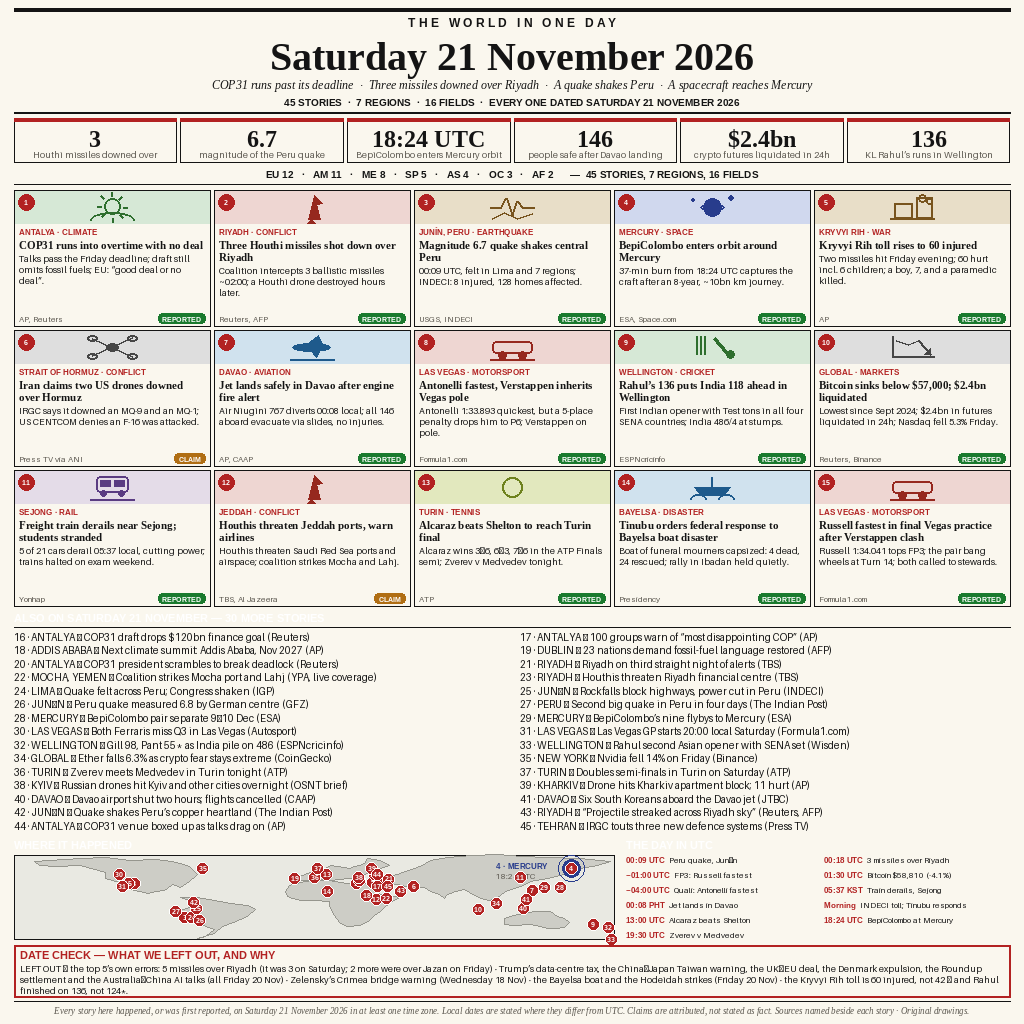
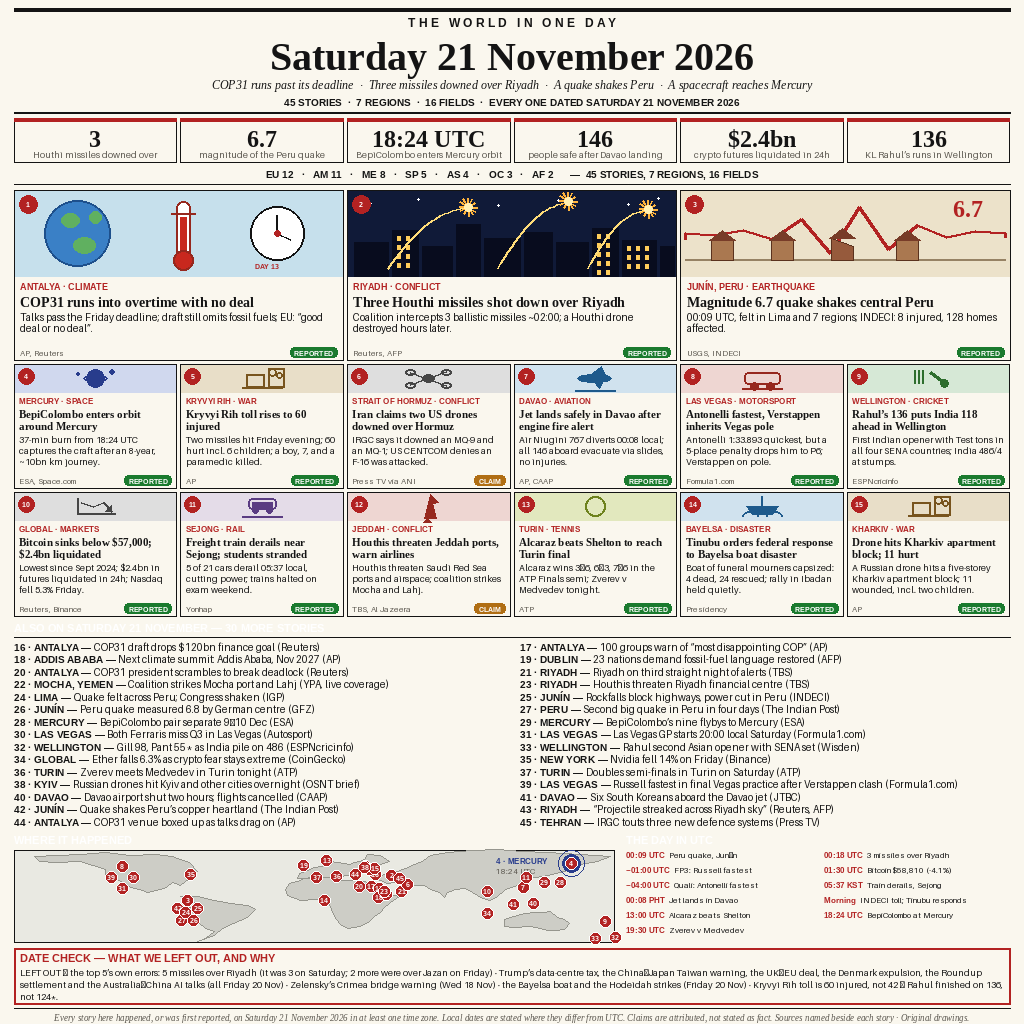
Improve front page v4: big rich top-3 illustrations, Kharkiv lead, cleaner map
- Top 3 leads are now large cards with rich full-colour scenes
  (COP31 globe/thermometer/clock, Riyadh night skyline + missile
  trails, Peru seismograph + houses + 6.7); other 12 leads smaller.
- Promote Kharkiv (drone hits apartment block, 11 hurt) to lead #15;
  demote Las Vegas FP3 to brief #39 so no event takes two lead slots.
- Map pins for same-place stories spread on a ring (de-clash).
- Briefs: place names bold for scannability; DATE CHECK tightened.
- 45 stories, 7 regions, 16 fields, 6-number strip, UTC timeline.
- Determinism verified (3x identical, sha a55c73e3...); main.py
  stdlib-only copy, verified under python3 -S -P.

diff --git a/build_image.py b/build_image.py
@@ -5,6 +5,12 @@ A newspaper front page summing up Saturday 21 November 2026: 45 stories
 verified as happening, or first reported, on Saturday 21 November 2026.
 All text and art is drawn in code with Pillow; no external images, no
 timestamps, no randomness -- the output is byte-for-byte deterministic.
+
+v4 layout: the top 3 leads are large cards with rich full-colour scenes
+(COP31, Riyadh missiles, Peru quake); the other 12 leads are smaller cards.
+Kharkiv (drone hits apartment block, 11 hurt) is promoted to lead #15 and
+the Las Vegas FP3 story is demoted to brief #39, so no single event takes
+two illustrated slots. Map pins for same-place stories spread on a ring.
 """
 
 from PIL import Image, ImageDraw, ImageFont
@@ -93,11 +99,11 @@ LEADS = [
          headline="Tinubu orders federal response to Bayelsa boat disaster",
          summary="Boat of funeral mourners capsized: 4 dead, 24 rescued; rally in Ibadan held quietly.",
          source="Presidency", lat=4.9, lon=6.1),
-    dict(n=15, place="LAS VEGAS", region="AM", field="MOTORSPORT", tag="REPORTED",
-         kind="motorsport",
-         headline="Russell fastest in final Vegas practice after Verstappen clash",
-         summary="Russell 1:34.041 tops FP3; the pair bang wheels at Turn 14; both called to stewards.",
-         source="Formula1.com", lat=36.2, lon=-115.1),
+    dict(n=15, place="KHARKIV", region="EU", field="WAR", tag="REPORTED",
+         kind="war",
+         headline="Drone hits Kharkiv apartment block; 11 hurt",
+         summary="A Russian drone hits a five-storey Kharkiv apartment block; 11 wounded, incl. two children.",
+         source="AP", lat=49.9, lon=36.3),
 ]
 
 BRIEFS = [
@@ -124,7 +130,7 @@ BRIEFS = [
     (36, "TURIN", "Zverev meets Medvedev in Turin tonight", "ATP", 45.1, 7.7),
     (37, "TURIN", "Doubles semi-finals in Turin on Saturday", "ATP", 45.1, 7.7),
     (38, "KYIV", "Russian drones hit Kyiv and other cities overnight", "OSNT brief", 50.4, 30.5),
-    (39, "KHARKIV", "Drone hits Kharkiv apartment block; 11 hurt", "AP", 49.9, 36.3),
+    (39, "LAS VEGAS", "Russell fastest in final Vegas practice after Verstappen clash", "Formula1.com", 36.2, -115.1),
     (40, "DAVAO", "Davao airport shut two hours; flights cancelled", "CAAP", 7.1, 125.6),
     (41, "DAVAO", "Six South Koreans aboard the Davao jet", "JTBC", 7.1, 125.6),
     (42, "JUN\u00cdN", "Quake shakes Peru\u2019s copper heartland", "The Indian Post", -11.2, -75.9),
@@ -163,8 +169,8 @@ DATE_CHECK = (
     "2 more were over Jazan on Friday) \u00b7 Trump\u2019s data-centre tax, the China\u2013Japan Taiwan "
     "warning, the UK\u2013EU deal, the Denmark expulsion, the Roundup settlement and the "
     "Australia\u2013China AI talks (all Friday 20 Nov) \u00b7 Zelensky\u2019s Crimea bridge warning "
-    "(Wednesday 18 Nov) \u00b7 the Bayelsa boat and the Hodeidah strikes (Friday 20 Nov) \u00b7 "
-    "the Kryvyi Rih toll is 60 injured, not 42 \u2014 and Rahul finished on 136, not 124*."
+    "(Wed 18 Nov) \u00b7 the Bayelsa boat and the Hodeidah strikes (Friday 20 Nov) \u00b7 "
+    "Kryvyi Rih toll is 60 injured, not 42 \u2014 Rahul finished on 136, not 124*."
 )
 
 FOOTER = (
@@ -216,6 +222,9 @@ def fonts():
         "numlabel": _font("LiberationSans.ttf", 9),
         "lead_head": _font("LiberationSerif-Bold.ttf", 11),
         "lead_sum": _font("LiberationSans.ttf", 9),
+        "big_head": _font("LiberationSerif-Bold.ttf", 14),
+        "big_sum": _font("LiberationSans.ttf", 10),
+        "big_kick": _font("LiberationSans-Bold.ttf", 9),
         "lead_kick": _font("LiberationSans-Bold.ttf", 8),
         "src": _font("LiberationSans.ttf", 8),
         "tag": _font("LiberationSans-Bold.ttf", 7),
@@ -347,6 +356,101 @@ def draw_illustration(d, box, kind, ink):
         d.arc([x1 - 20, y1 - 8, x1 - 4, y1 + 2], 180, 360, fill=ink, width=2)
 
 
+def draw_big_illustration(d, box, kind, F):
+    """Rich scene for a top-3 lead: a full-colour picture, not a pictogram."""
+    import math
+    x0, y0, x1, y1 = box
+    x0, y0, x1, y1 = int(x0), int(y0), int(x1), int(y1)
+    w, h = x1 - x0, y1 - y0
+    cx, cy = (x0 + x1) / 2, (y0 + y1) / 2
+    if kind == "climate":
+        d.rectangle([x0, y0, x1, y1], fill=(198, 224, 236))
+        # globe, left
+        gx, gy, gr = x0 + 62, cy, 33
+        d.ellipse([gx - gr, gy - gr, gx + gr, gy + gr], fill=(58, 128, 198),
+                  outline=(30, 80, 140), width=2)
+        d.ellipse([gx - 16, gy - 20, gx + 2, gy - 6], fill=(96, 176, 96))
+        d.ellipse([gx - 4, gy + 4, gx + 18, gy + 20], fill=(96, 176, 96))
+        d.ellipse([gx + 12, gy - 22, gx + 24, gy - 10], fill=(96, 176, 96))
+        # thermometer, centre
+        tx = x0 + 168
+        d.rounded_rectangle([tx - 7, y0 + 10, tx + 7, y1 - 16], radius=7,
+                            fill=(255, 255, 255), outline=(150, 40, 30), width=2)
+        d.rectangle([tx - 3, y0 + 26, tx + 3, y1 - 22], fill=(200, 40, 30))
+        d.ellipse([tx - 10, y1 - 26, tx + 10, y1 - 6], fill=(200, 40, 30),
+                  outline=(150, 40, 30), width=2)
+        d.line([tx - 12, y0 + 22, tx + 12, y0 + 22], fill=(150, 40, 30), width=2)
+        # clock (overtime), right
+        kx, ky, kr = x0 + 262, cy, 27
+        d.ellipse([kx - kr, ky - kr, kx + kr, ky + kr], fill=(255, 255, 255),
+                  outline=(20, 20, 20), width=2)
+        d.line([kx, ky, kx, ky - 18], fill=(20, 20, 20), width=2)
+        d.line([kx, ky, kx + 13, ky + 6], fill=(20, 20, 20), width=2)
+        d.ellipse([kx - 3, ky - 3, kx + 3, ky + 3], fill=(178, 34, 34))
+        d.text((kx - 22, ky + kr + 2), "DAY 13", font=F["tag"], fill=(178, 34, 34))
+    elif kind == "missile":
+        d.rectangle([x0, y0, x1, y1], fill=(16, 26, 56))
+        # stars
+        for sx, sy in [(x0 + 22, y0 + 12), (x0 + 70, y0 + 8), (x0 + 150, y0 + 14),
+                       (x0 + 210, y0 + 9), (x0 + 280, y0 + 13), (x0 + 310, y0 + 7)]:
+            d.ellipse([sx - 1, sy - 1, sx + 1, sy + 1], fill=(255, 255, 255))
+        # skyline, dark towers with lit windows
+        for bx, bw, bh in [(x0 + 6, 34, 34), (x0 + 44, 26, 46), (x0 + 74, 30, 30),
+                           (x0 + 108, 24, 52), (x0 + 136, 36, 38), (x0 + 176, 28, 44),
+                           (x0 + 208, 32, 34), (x0 + 244, 26, 48), (x0 + 274, 34, 36),
+                           (x0 + 312, 14, 30)]:
+            d.rectangle([bx, y1 - bh, bx + bw, y1], fill=(8, 12, 30))
+            for wy in range(y1 - bh + 6, y1 - 4, 9):
+                for wx in range(bx + 5, bx + bw - 4, 9):
+                    if (wx + wy) % 3 == 0:
+                        d.rectangle([wx, wy, wx + 3, wy + 4], fill=(255, 205, 90))
+        # three interceptor trails arcing up, with starbursts
+        for tx0, tx1, top in [(x0 + 40, x0 + 120, y0 + 16), (x0 + 150, x0 + 220, y0 + 10),
+                              (x0 + 240, x0 + 300, y0 + 18)]:
+            pts = []
+            for s in range(0, 21):
+                t = s / 20
+                px = tx0 + (tx1 - tx0) * t
+                py = (y1 - 8) + (top - (y1 - 8)) * t - 14 * math.sin(math.pi * t)
+                pts.append((px, py))
+            d.line(pts, fill=(255, 220, 120), width=2)
+            ex, ey = tx1, top
+            for a in range(0, 360, 30):
+                r = 9
+                d.line([ex, ey, ex + r * math.cos(math.radians(a)),
+                        ey + r * math.sin(math.radians(a))],
+                       fill=(255, 180, 60), width=2)
+            d.ellipse([ex - 4, ey - 4, ex + 4, ey + 4], fill=(255, 240, 180))
+    elif kind == "quake":
+        d.rectangle([x0, y0, x1, y1], fill=(236, 226, 202))
+        # seismograph trace, big red waveform
+        pts = [(x0 + 4, cy + 6)]
+        amps = [0, 2, -3, 6, -14, 20, -26, 16, -8, 4, -2, 0]
+        step = (w - 8) / (len(amps) - 1)
+        for i, a in enumerate(amps):
+            pts.append((x0 + 4 + i * step, cy + a))
+        pts.append((x1 - 4, cy + 4))
+        d.line(pts, fill=(178, 34, 34), width=3)
+        d.line([(x0 + 4, cy + 26), (x1 - 4, cy + 26)], fill=(150, 130, 100), width=2)
+        # houses along the ground line, one tilted
+        for hx, tilt in [(x0 + 30, 0), (x0 + 90, 0), (x0 + 150, 8), (x0 + 215, 0)]:
+            hy = y1 - 26
+            if tilt:
+                d.polygon([(hx, hy - 12), (hx + 22, hy - 4), (hx + 22, hy + 10),
+                           (hx, hy + 10)], fill=(150, 90, 60), outline=(90, 50, 30))
+                d.polygon([(hx - 2, hy - 12), (hx + 11, hy - 22), (hx + 24, hy - 12)],
+                          fill=(120, 60, 40))
+            else:
+                d.rectangle([hx, hy - 10, hx + 22, hy + 10], fill=(170, 120, 80),
+                            outline=(90, 50, 30))
+                d.polygon([(hx - 2, hy - 10), (hx + 11, hy - 20), (hx + 24, hy - 10)],
+                          fill=(120, 60, 40))
+        d.text((x1 - 56, y0 + 4), "6.7", font=F["big"], fill=(178, 34, 34))
+    else:
+        # fallback: the small pictogram, centred
+        draw_illustration(d, box, kind, (60, 60, 60))
+
+
 # ---------------------------------------------------------------- sections
 
 
@@ -385,50 +489,77 @@ def draw_region_bar(d, F, y):
 
 
 def draw_leads(d, F, y):
-    cols, gap = 5, 4
-    card_w = (W - 2 * MARGIN - (cols - 1) * gap) / cols
-    card_h = 136
-    for row in range(3):
-        for col in range(5):
-            lead = LEADS[row * 5 + col]
-            x0 = MARGIN + col * (card_w + gap)
-            x1 = x0 + card_w
-            cy = y + row * (card_h + gap)
-            d.rectangle([x0, cy, x1, cy + card_h], outline=RULE, width=1)
-            # illustration band
-            tint = KIND_TINT[lead["kind"]]
-            d.rectangle([x0 + 1, cy + 1, x1 - 1, cy + 33], fill=tint)
-            draw_illustration(d, (x0 + card_w / 2 - 26, cy + 2, x0 + card_w / 2 + 26, cy + 32),
-                              lead["kind"], KIND_INK[lead["kind"]])
-            # number tag
-            d.ellipse([x0 + 4, cy + 4, x0 + 20, cy + 20], fill=RED)
-            num = str(lead["n"])
-            nw = d.textlength(num, font=F["tag"])
-            d.text((x0 + 12 - nw / 2, cy + 8), num, font=F["tag"], fill=(255, 255, 255))
-            # kicker: place + field
-            d.text((x0 + 5, cy + 37), "%s \u00b7 %s" % (lead["place"], lead["field"]),
-                   font=F["lead_kick"], fill=RED)
-            # headline, up to 3 lines
-            hl = fit_lines(d, lead["headline"], F["lead_head"], card_w - 10, 3)
-            hy = cy + 49
-            for ln in hl:
-                d.text((x0 + 5, hy), ln, font=F["lead_head"], fill=INK)
-                hy += 12
-            # summary, up to 3 lines
-            sl = fit_lines(d, lead["summary"], F["lead_sum"], card_w - 10, 3)
-            sy = hy + 2
-            for ln in sl:
-                d.text((x0 + 5, sy), ln, font=F["lead_sum"], fill=INK)
-                sy += 11
-            # source + verification tag, pinned to the card bottom
-            d.text((x0 + 5, cy + card_h - 12), lead["source"], font=F["src"], fill=MUTED)
-            tag = lead["tag"]
-            tw = d.textlength(tag, font=F["tag"]) + 8
-            d.rounded_rectangle([x1 - 5 - tw, cy + card_h - 13, x1 - 5, cy + card_h - 3],
-                                radius=4, fill=TAG_COLORS[tag])
-            d.text((x1 - 5 - tw + 4, cy + card_h - 11), tag, font=F["tag"],
-                   fill=(255, 255, 255))
-    return y + 3 * card_h + 2 * gap + 6
+    gap = 4
+    # --- big row: leads 1-3, large rich illustrations
+    big_w = (W - 2 * MARGIN - 2 * gap) / 3
+    big_h = 170
+    for i in range(3):
+        lead = LEADS[i]
+        x0 = MARGIN + i * (big_w + gap)
+        x1 = x0 + big_w
+        d.rectangle([x0, y, x1, y + big_h], outline=RULE, width=1)
+        draw_big_illustration(d, (x0 + 1, y + 1, x1 - 1, y + 86), lead["kind"], F)
+        d.ellipse([x0 + 5, y + 5, x0 + 23, y + 23], fill=RED)
+        num = str(lead["n"])
+        nw = d.textlength(num, font=F["tag"])
+        d.text((x0 + 14 - nw / 2, y + 10), num, font=F["tag"], fill=(255, 255, 255))
+        d.text((x0 + 6, y + 91), "%s \u00b7 %s" % (lead["place"], lead["field"]),
+               font=F["big_kick"], fill=RED)
+        hl = fit_lines(d, lead["headline"], F["big_head"], big_w - 12, 2)
+        hy = y + 104
+        for ln in hl:
+            d.text((x0 + 6, hy), ln, font=F["big_head"], fill=INK)
+            hy += 15
+        sl = fit_lines(d, lead["summary"], F["big_sum"], big_w - 12, 2)
+        sy = hy + 2
+        for ln in sl:
+            d.text((x0 + 6, sy), ln, font=F["big_sum"], fill=INK)
+            sy += 11
+        d.text((x0 + 6, y + big_h - 12), lead["source"], font=F["src"], fill=MUTED)
+        tag = lead["tag"]
+        tw = d.textlength(tag, font=F["tag"]) + 8
+        d.rounded_rectangle([x1 - 6 - tw, y + big_h - 13, x1 - 6, y + big_h - 3],
+                            radius=4, fill=TAG_COLORS[tag])
+        d.text((x1 - 6 - tw + 4, y + big_h - 11), tag, font=F["tag"],
+               fill=(255, 255, 255))
+    # --- small rows: leads 4-15, 2 rows x 6
+    y2 = y + big_h + gap
+    small_w = (W - 2 * MARGIN - 5 * gap) / 6
+    small_h = 124
+    for idx, lead in enumerate(LEADS[3:]):
+        row, col = divmod(idx, 6)
+        x0 = MARGIN + col * (small_w + gap)
+        x1 = x0 + small_w
+        cy = y2 + row * (small_h + gap)
+        d.rectangle([x0, cy, x1, cy + small_h], outline=RULE, width=1)
+        tint = KIND_TINT[lead["kind"]]
+        d.rectangle([x0 + 1, cy + 1, x1 - 1, cy + 28], fill=tint)
+        draw_illustration(d, (x0 + small_w / 2 - 24, cy + 2, x0 + small_w / 2 + 24, cy + 27),
+                          lead["kind"], KIND_INK[lead["kind"]])
+        d.ellipse([x0 + 4, cy + 4, x0 + 20, cy + 20], fill=RED)
+        num = str(lead["n"])
+        nw = d.textlength(num, font=F["tag"])
+        d.text((x0 + 12 - nw / 2, cy + 8), num, font=F["tag"], fill=(255, 255, 255))
+        d.text((x0 + 5, cy + 32), "%s \u00b7 %s" % (lead["place"], lead["field"]),
+               font=F["lead_kick"], fill=RED)
+        hl = fit_lines(d, lead["headline"], F["lead_head"], small_w - 10, 2)
+        hy = cy + 44
+        for ln in hl:
+            d.text((x0 + 5, hy), ln, font=F["lead_head"], fill=INK)
+            hy += 12
+        sl = fit_lines(d, lead["summary"], F["lead_sum"], small_w - 10, 3)
+        sy = hy + 2
+        for ln in sl:
+            d.text((x0 + 5, sy), ln, font=F["lead_sum"], fill=INK)
+            sy += 11
+        d.text((x0 + 5, cy + small_h - 12), lead["source"], font=F["src"], fill=MUTED)
+        tag = lead["tag"]
+        tw = d.textlength(tag, font=F["tag"]) + 8
+        d.rounded_rectangle([x1 - 5 - tw, cy + small_h - 13, x1 - 5, cy + small_h - 3],
+                            radius=4, fill=TAG_COLORS[tag])
+        d.text((x1 - 5 - tw + 4, cy + small_h - 11), tag, font=F["tag"],
+               fill=(255, 255, 255))
+    return y2 + 2 * small_h + gap + 6
 
 
 def draw_briefs(d, F, y):
@@ -436,21 +567,21 @@ def draw_briefs(d, F, y):
     d.line([MARGIN, y + 15, W - MARGIN, y + 15], fill=RULE, width=1)
     y += 19
     col_w = (W - 2 * MARGIN - 16) / 2
-    row_h = 13.5
+    row_h = 12.5
     for i, (n, place, frag, src, _lat, _lon) in enumerate(BRIEFS):
         col = i % 2
         row = i // 2
         x0 = MARGIN + col * (col_w + 16)
         by = y + row * row_h
-        line = "%d \u00b7 %s \u2014 %s (%s)" % (n, place, frag, src)
-        if d.textlength(line, font=F["brief"]) > col_w:
-            # shorten the fragment until it fits
-            while frag and d.textlength(
-                    "%d \u00b7 %s \u2014 %s\u2026 (%s)" % (n, place, frag, src),
-                    font=F["brief"]) > col_w:
-                frag = frag[:-1]
-            line = "%d \u00b7 %s \u2014 %s\u2026 (%s)" % (n, place, frag, src)
-        d.text((x0, by), line, font=F["brief"], fill=INK)
+        prefix = "%d \u00b7 %s \u2014 " % (n, place)
+        pw = d.textlength(prefix, font=F["brief_b"])
+        tail = "%s (%s)" % (frag, src)
+        avail = col_w - pw
+        while tail and d.textlength(tail, font=F["brief"]) > avail:
+            frag = frag[:-1]
+            tail = "%s\u2026 (%s)" % (frag, src)
+        d.text((x0, by), prefix, font=F["brief_b"], fill=INK)
+        d.text((x0 + pw, by), tail, font=F["brief"], fill=INK)
     return y + 15 * row_h + 4
 
 
@@ -513,16 +644,35 @@ def draw_map(d, F, x0, y0, w, h):
     all_stories += [(n, lat, lon) for (n, _p, _f, _s, lat, lon) in BRIEFS]
     space_pins = {4: (mx + mw - 43, my + 13), 28: (mx + mw - 54, my + 32),
                   29: (mx + mw - 70, my + 32)}
+    # group by place so same-location pins spread on a ring instead of stacking
+    from collections import defaultdict
+    import math
+    groups = defaultdict(list)
     for n, lat, lon in sorted(all_stories):
         if n in space_pins:
-            px, py = space_pins[n]
+            continue
+        groups[(lat, lon)].append(n)
+    for (lat, lon), nums in groups.items():
+        bx, by = _project(lon, lat, mx, my, mw, mh)
+        if len(nums) == 1:
+            offsets = [(0, 0)]
         else:
-            px, py = _project(lon, lat, mx, my, mw, mh)
-            # deterministic de-clash nudge so same-place pins do not sit exactly on top
-            px += ((n * 37) % 9 - 4) * 3
-            py += ((n * 53) % 7 - 3) * 3
+            offsets = []
+            for k in range(len(nums)):
+                ang = 2 * math.pi * k / len(nums) - math.pi / 2
+                offsets.append((round(11 * math.cos(ang)), round(11 * math.sin(ang))))
+        for n, (dx, dy) in zip(nums, offsets):
+            px, py = bx + dx, by + dy
+            r = 6
+            d.ellipse([px - r, py - r, px + r, py + r], fill=RED,
+                      outline=(255, 255, 255), width=1)
+            num = str(n)
+            nw = d.textlength(num, font=F["map_pin"])
+            d.text((px - nw / 2, py - 4.5), num, font=F["map_pin"], fill=(255, 255, 255))
+    for n, (px, py) in space_pins.items():
         r = 6
-        d.ellipse([px - r, py - r, px + r, py + r], fill=RED, outline=(255, 255, 255), width=1)
+        d.ellipse([px - r, py - r, px + r, py + r], fill=RED,
+                  outline=(255, 255, 255), width=1)
         num = str(n)
         nw = d.textlength(num, font=F["map_pin"])
         d.text((px - nw / 2, py - 4.5), num, font=F["map_pin"], fill=(255, 255, 255))
@@ -550,14 +700,14 @@ def draw_timeline(d, F, x0, y0, w, h):
 
 
 def draw_date_check(d, F, y):
-    h = 52
+    h = 56
     d.rectangle([MARGIN, y, W - MARGIN, y + h], outline=RED, width=2)
     d.text((MARGIN + 6, y + 4), "DATE CHECK \u2014 WHAT WE LEFT OUT, AND WHY", font=F["sec"], fill=RED)
     lines = wrap(d, DATE_CHECK, F["check"], W - 2 * MARGIN - 12)
-    ly = y + 18
+    ly = y + 19
     for ln in lines[:3]:
         d.text((MARGIN + 6, ly), ln, font=F["check"], fill=INK)
-        ly += 11
+        ly += 12
     return y + h + 4
 
 
@@ -584,7 +734,7 @@ def build(path="entry.png"):
     y = draw_leads(d, F, y)
     y = draw_briefs(d, F, y)
     map_y = y + 2
-    map_h = 100
+    map_h = 108
     draw_map(d, F, MARGIN, map_y, 600, map_h)
     draw_timeline(d, F, MARGIN + 612, map_y, W - MARGIN - (MARGIN + 612), map_h)
     y = draw_date_check(d, F, map_y + map_h + 6)
